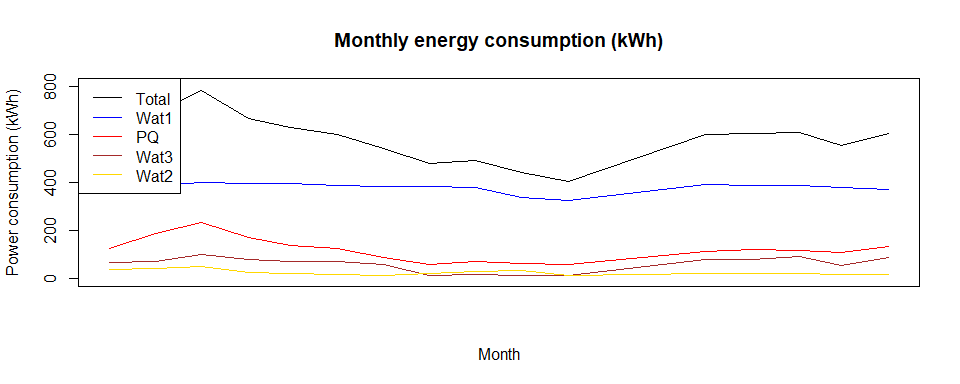
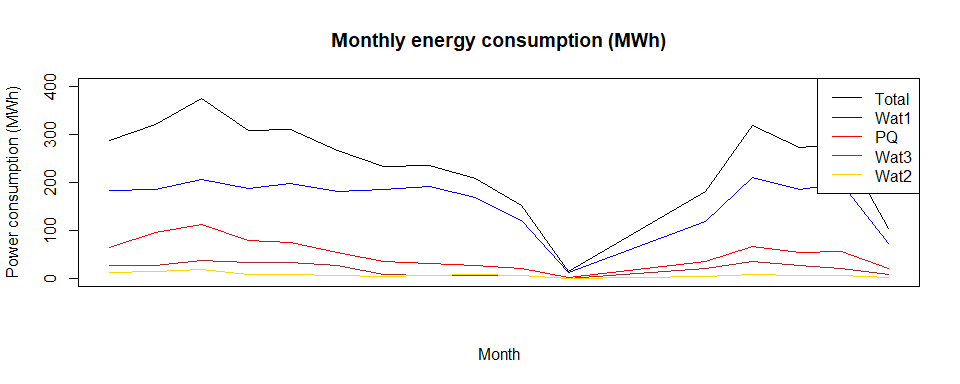
correcting charge

diff --git a/doc/source/charge.html b/doc/source/charge.html
@@ -410,9 +410,9 @@ $(document).ready(function () {
 </div>
 <div id="benefit-cost-analysis-of-involving-a-virtual-meter" class="section level1">
 <h1>Benefit-cost analysis of involving a virtual meter</h1>
-<p>A virtual meter could save money by aggregating all the meters resulting in a payment once during a billing cycle as opposed to several billed payments, in this case four times. On the other hand, vitual meter may lead to higher rate per unit kW for the demand charge. For example, the utility has charged <code>Poker flat</code> $14.29 per kW for GS-2 service while GS-3 would involve $22.89 per kW. So it is necessary to cost-benefit analysis to find saving could happen by implementing a virtual meter.</p>
+<p>A virtual meter could save money by aggregating all the meters resulting in a payment once during a billing cycle as opposed to several billed payments, in this case four times. On the other hand, vitual meter may lead to higher rate per unit kW for the demand charge. For example, the utility has charged <code>Poker flat</code> $14.29 per kW for GS-2 service while GS-3 would involve $22.89 per kW. So it is necessary to perform a benefit-cost analysis to find if saving could happen by implementing a virtual meter.</p>
 <p>On the other hand, GS-3 service has higher utility charge of $0.0294 per kWh while GS-2 has $0.06256 per kWh. The monthly power consumption for each meter and the total are shown in the figure below.</p>
[2 lines of base64/hex data omitted]
 <p>Adding customer charge and fuel &amp; purchased power charge, which are fixed during a month, the total estimated electricity costs for the both cases (1) payments for the individual 4 meters, and (2) a payment for the virtual meter, were caculated.</p>
 <table class="table table-striped table-hover table-condensed" style="margin-left: auto; margin-right: auto;">
 <caption>
@@ -525,9 +525,9 @@ GS-3
 </tr>
 </tbody>
 </table>
-<p>It turns out aggregating all the meters by a virtual meter ends up with paying more while having less peak power during a billing cycle as opposed to the aggregation of the peak power of the individual four meters.</p>
[1 lines of base64/hex data omitted]
-<p>The estimated montly saving would be $-4154.05, which is negative, meaning it is actually losing.</p>
+<p>It turns out aggregating all the meters by a virtual meter ends up with paying less with less peak power during a billing cycle as opposed to the aggregation of the peak power of the individual four meters.</p>
[1 lines of base64/hex data omitted]
+<p>The estimated montly saving would be $3934.4. So the conclusion is having a vurtaul meter is viable and saving money by reducing the billing.</p>
 </div>
 
 

diff --git a/doc/source/charge.md b/doc/source/charge.md
@@ -28,7 +28,7 @@ There are slightly difference between monthly peak demand forecasts of a virtual
 
 # Benefit-cost analysis of involving a virtual meter
 
-A virtual meter could save money by aggregating all the meters resulting in a payment once during a billing cycle as opposed to several billed payments, in this case four times. On the other hand, vitual meter may lead to higher rate per unit kW for the demand charge. For example, the utility has charged `Poker flat` \$14.29 per kW for GS-2 service while GS-3 would involve \$22.89 per kW. So it is necessary to cost-benefit analysis to find saving could happen by implementing a virtual meter. 
+A virtual meter could save money by aggregating all the meters resulting in a payment once during a billing cycle as opposed to several billed payments, in this case four times. On the other hand, vitual meter may lead to higher rate per unit kW for the demand charge. For example, the utility has charged `Poker flat` \$14.29 per kW for GS-2 service while GS-3 would involve \$22.89 per kW. So it is necessary to perform a benefit-cost analysis to find if saving could happen by implementing a virtual meter. 
 
 
 
@@ -89,11 +89,11 @@ Adding customer charge and fuel & purchased power charge, which are fixed during
 </table>
 
 
-It turns out aggregating all the meters by a virtual meter ends up with paying more while having less peak power during a billing cycle as opposed to the aggregation of the peak power of the individual four meters. 
+It turns out aggregating all the meters by a virtual meter ends up with paying less with less peak power during a billing cycle as opposed to the aggregation of the peak power of the individual four meters. 
 
 ![](charge_files/figure-html/unnamed-chunk-8-1.png)<!-- -->
 
 
-The estimated montly saving would be \$-4154.05, which is negative, meaning it is actually losing. 
+The estimated montly saving would be \$3934.4. So the conclusion is having a vurtaul meter is viable and saving money by reducing the billing. 
 
 
